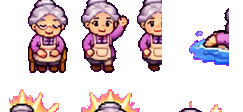
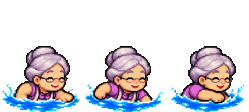
C14 P6: real swim strips for Bo, June, Rafe, Nia, Ollie, Marisol; slicer character jobs never re-run on their own output

diff --git a/tools/slice_c14_art.py b/tools/slice_c14_art.py
@@ -220,6 +220,8 @@ def mg_jobs(check, man):
                 print("skip", cid, len(ps))
                 continue
             grp = "characters/" + cid
+            if done(man, grp, "walk_up"):
+                continue
             ref = Image.open(os.path.join(GEN, man[grp]["walk_down"]["file"])).convert("RGBA")
             rh = int((np.array(ref)[..., 3] > 40).any(axis=1).sum())  # figure height in the old art
             s = rh / float(np.median([p.shape[0] for p in ps]))
@@ -239,7 +241,7 @@ def mg_jobs(check, man):
                     if os.path.exists(dst):
                         os.remove(dst)
                     im.save(dst)
-                    man.setdefault(grp, {})[nm] = {"file": rel, "w": im.width, "h": im.height, "frames": n, "cell_w": cw, "cell_h": ch}
+                    man.setdefault(grp, {})[nm] = {"file": rel, "w": im.width, "h": im.height, "frames": n, "cell_w": cw, "cell_h": ch, "c14p6": True}
                 made.append("%s %s x%d %dx%d" % (grp, nm, n, cw, ch))
     return made
 
@@ -259,7 +261,7 @@ def redraw_jobs(check, man):
     made = []
     for sheet, (grp, rows, join) in REDRAWS.items():
         src = os.path.join(INC, sheet)
-        if not os.path.exists(src):
+        if not os.path.exists(src) or done(man, grp, "idle"):
             continue
         a = load(src)
         old = Image.open(os.path.join(GEN, man[grp]["idle"]["file"])).convert("RGBA")
@@ -280,7 +282,7 @@ def redraw_jobs(check, man):
                 if os.path.exists(dst):
                     os.remove(dst)
                 im.save(dst)
-                man[grp][anim] = {"file": rel, "w": im.width, "h": im.height, "frames": len(fr), "cell_w": cw, "cell_h": ch}
+                man[grp][anim] = {"file": rel, "w": im.width, "h": im.height, "frames": len(fr), "cell_w": cw, "cell_h": ch, "c14p6": True}
             made.append("%s %s x%d %dx%d" % (grp, anim, len(fr), cw, ch))
     return made
 
@@ -303,6 +305,8 @@ def kit_jobs(check, man):
         a = load(src)
         for (y0, y1), cid in zip(row_bands(a, len(ids)), ids):
             grp = "characters/" + cid
+            if done(man, grp, "idle"):
+                continue
             ps = cells12(a[y0:y1], 8)
             old = Image.open(os.path.join(GEN, man[grp]["idle"]["file"])).convert("RGBA")
             rh = int((np.array(old)[..., 3] > 40).any(axis=1).sum())
@@ -318,9 +322,54 @@ def kit_jobs(check, man):
                     if os.path.exists(dst):
                         os.remove(dst)
                     im.save(dst)
-                    man[grp][anim] = {"file": rel, "w": im.width, "h": im.height, "frames": 4, "cell_w": cw, "cell_h": ch}
+                    man[grp][anim] = {"file": rel, "w": im.width, "h": im.height, "frames": 4, "cell_w": cw, "cell_h": ch, "c14p6": True}
                 made.append("%s %s x4 %dx%d" % (grp, anim, cw, ch))
     return made
+
+
+# Hero swims (c14_17-13: Bo, June, Rafe, Nia, Ollie, Marisol swam by sitting or waving):
+# 3 per sheet, 5 cells = swim side x3, swim toward x1, swim away x1; figure 0.65 x idle
+# height (the other heroes' ratio), bottom-aligned in the 112 px cell.
+SWIM_SHEETS = {"swim_a.png": ["bo", "june", "rafe"], "swim_b.png": ["nia", "ollie", "marisol"]}
+
+
+def swim_jobs(check, man):
+    made = []
+    for sheet, ids in SWIM_SHEETS.items():
+        src = os.path.join(INC, sheet)
+        if not os.path.exists(src):
+            continue
+        a = load(src)
+        for (y0, y1), cid in zip(row_bands(a, len(ids)), ids):
+            grp = "characters/" + cid
+            if done(man, grp, "swim"):
+                continue
+            ps = cells12(a[y0:y1], 5)
+            old = Image.open(os.path.join(GEN, man[grp]["idle"]["file"])).convert("RGBA")
+            ih = int((np.array(old)[..., 3] > 40).any(axis=1).sum())
+            s = 0.65 * ih / float(np.median([p.shape[0] for p in ps]))
+            fr = [shrink(p, (max(1, round(p.shape[1] * s)), max(1, round(p.shape[0] * s)))) for p in ps]
+            ch = int(man[grp]["swim"].get("cell_h", 112))
+            for anim, part in (("swim", fr[:3]), ("swim_down", fr[3:4]), ("swim_up", fr[4:5])):
+                cw = max(f.width for f in part) + 2
+                im = strip(part, cw, ch)
+                rel = "%s/%s.png" % (grp, anim)
+                if not check:
+                    dst = os.path.join(GEN, rel)
+                    if os.path.exists(dst):
+                        os.remove(dst)
+                    im.save(dst)
+                    man[grp][anim] = {"file": rel, "w": im.width, "h": im.height, "frames": len(part), "cell_w": cw, "cell_h": ch, "c14p6": True}
+                made.append("%s %s x%d %dx%d" % (grp, anim, len(part), cw, ch))
+    return made
+
+
+FORCE = "--force" in sys.argv
+
+
+def done(man, grp, anim):
+    """Character jobs scale from the old art's height: never re-run on their own output."""
+    return not FORCE and bool(man.get(grp, {}).get(anim, {}).get("c14p6"))
 
 
 def main():
@@ -348,6 +397,7 @@ def main():
     made += mg_jobs(check, man)
     made += redraw_jobs(check, man)
     made += kit_jobs(check, man)
+    made += swim_jobs(check, man)
     if not check:
         with open(MAN, "w") as f:
             json.dump(man, f, indent=1, sort_keys=True)
